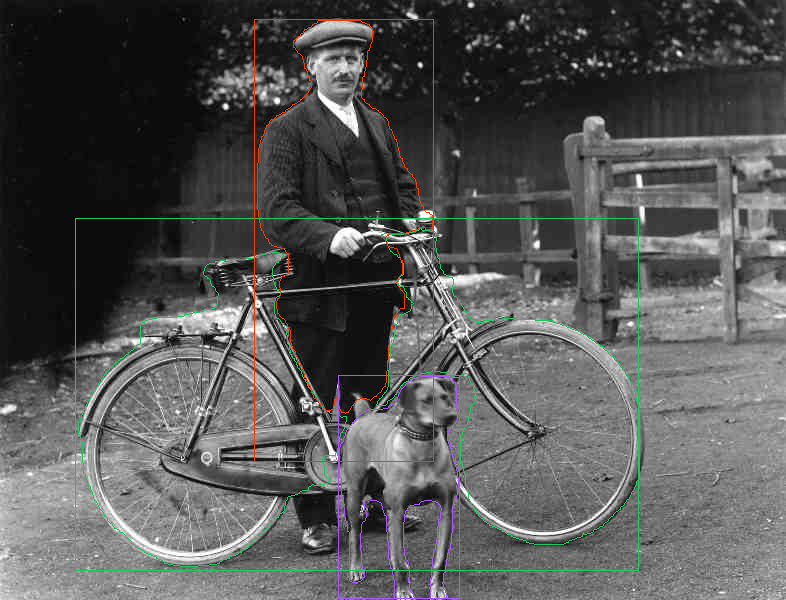
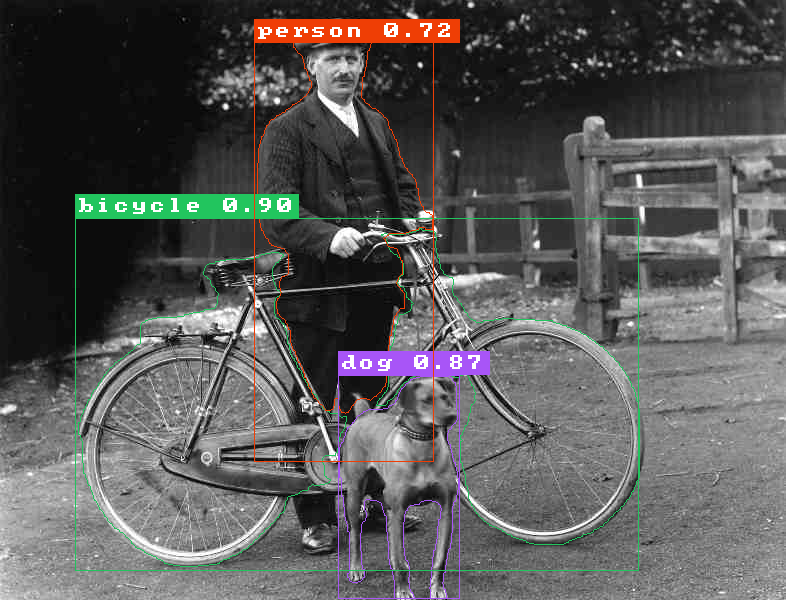
font rendering and text in plots (#1)

Changed region(s): [[0.0916, 0.3, 0.3969, 0.39], [0.3053, 0.03, 0.6107, 0.09], [0.4275, 0.57, 0.6412, 0.63]]

diff --git a/src/lib.rs b/src/lib.rs
@@ -2549,24 +2549,28 @@ pub fn default_wgpu_device() -> (burn::backend::wgpu::WgpuDevice, String) {
         .clone()
 }
 
-/// Draw detection rectangles on a copy of the image.
+/// Draw labeled detection rectangles on a copy of the image.
 pub fn annotate(image: &DynamicImage, detections: &[Detection]) -> DynamicImage {
     let mut output = image.to_rgb8();
     for detection in detections {
         let color = class_color(detection.class_id);
-        draw_rect(
+        draw_labeled_rect(
             &mut output,
-            detection.xmin as u32,
-            detection.ymin as u32,
-            detection.xmax as u32,
-            detection.ymax as u32,
+            [
+                detection.xmin as u32,
+                detection.ymin as u32,
+                detection.xmax as u32,
+                detection.ymax as u32,
+            ],
             color,
+            &detection.class_name,
+            detection.confidence,
         );
     }
     DynamicImage::ImageRgb8(output)
 }
 
-/// Draw instance-mask outlines and detection rectangles on a copy of the image.
+/// Draw instance-mask outlines and labeled detection rectangles on a copy of the image.
 ///
 /// The outline is the mask's boolean boundary: every covered pixel with at least one uncovered
 /// 4-neighbor is drawn in the class color, then the boxes are stroked on top. Masks live in
@@ -2585,13 +2589,17 @@ pub fn annotate_segmentation(
     }
     for detection in detections {
         let color = class_color(detection.class_id);
-        draw_rect(
+        draw_labeled_rect(
             &mut output,
-            detection.xmin as u32,
-            detection.ymin as u32,
-            detection.xmax as u32,
-            detection.ymax as u32,
+            [
+                detection.xmin as u32,
+                detection.ymin as u32,
+                detection.xmax as u32,
+                detection.ymax as u32,
+            ],
             color,
+            &detection.class_name,
+            detection.confidence,
         );
     }
     DynamicImage::ImageRgb8(output)
@@ -2635,6 +2643,124 @@ fn class_color(class_id: usize) -> Rgb<u8> {
         [236, 72, 153],
     ];
     Rgb(PALETTE[class_id % PALETTE.len()])
+}
+
+fn draw_labeled_rect(
+    image: &mut ImageBuffer<Rgb<u8>, Vec<u8>>,
+    bounds: [u32; 4],
+    color: Rgb<u8>,
+    class_name: &str,
+    confidence: f32,
+) {
+    let [x1, y1, x2, y2] = bounds;
+    draw_rect(image, x1, y1, x2, y2, color);
+    draw_label(image, x1, y1, color, class_name, confidence);
+}
+
+/// Draw a compact class-colored chip above the box, matching the visual convention used by
+/// BoquilaHub. The chip falls inside the image at the top edge and shifts left at the right edge.
+fn draw_label(
+    image: &mut ImageBuffer<Rgb<u8>, Vec<u8>>,
+    x: u32,
+    y: u32,
+    color: Rgb<u8>,
+    class_name: &str,
+    confidence: f32,
+) {
+    use font8x8::{BASIC_FONTS, LATIN_FONTS, UnicodeFonts};
+
+    if image.width() < 16 || image.height() < 12 {
+        return;
+    }
+
+    let scale = match image.width().min(image.height()) {
+        0..=399 => 1,
+        400..=899 => 2,
+        _ => 3,
+    };
+    let padding = 2 * scale;
+    let advance = 9 * scale;
+    let max_chars = ((image.width() - 2 * padding) / advance).max(1) as usize;
+    let text = label_text(class_name, confidence, max_chars);
+    let text_chars = text.chars().count() as u32;
+    let chip_width = (text_chars * advance + 2 * padding).min(image.width());
+    let chip_height = 8 * scale + 2 * padding;
+    if chip_height > image.height() {
+        return;
+    }
+
+    let chip_x = x.min(image.width() - chip_width);
+    let chip_y = if y >= chip_height {
+        y - chip_height
+    } else {
+        y.min(image.height() - chip_height)
+    };
+    fill_rect(image, chip_x, chip_y, chip_width, chip_height, color);
+
+    let white = Rgb([255, 255, 255]);
+    let mut cursor_x = chip_x + padding;
+    for character in text.chars() {
+        let glyph = BASIC_FONTS
+            .get(character)
+            .or_else(|| LATIN_FONTS.get(character))
+            .or_else(|| BASIC_FONTS.get('?'))
+            .expect("the built-in bitmap font contains a question mark");
+        for (row, bits) in glyph.iter().copied().enumerate() {
+            for column in 0..8 {
+                if bits & (1 << column) == 0 {
+                    continue;
+                }
+                let glyph_x = cursor_x + column * scale;
+                let glyph_y = chip_y + padding + row as u32 * scale;
+                fill_rect(image, glyph_x, glyph_y, scale, scale, white);
+            }
+        }
+        cursor_x += advance;
+    }
+}
+
+fn label_text(class_name: &str, confidence: f32, max_chars: usize) -> String {
+    let confidence = format!("{confidence:.2}");
+    if max_chars <= confidence.len() {
+        return confidence.chars().take(max_chars).collect();
+    }
+
+    let name_limit = max_chars - confidence.len() - 1;
+    let mut name: String = class_name
+        .chars()
+        .map(|character| {
+            if character.is_control() {
+                '?'
+            } else if character.is_whitespace() {
+                ' '
+            } else {
+                character
+            }
+        })
+        .take(name_limit)
+        .collect();
+    if class_name.chars().count() > name_limit && name_limit > 0 {
+        name.pop();
+        name.push('~');
+    }
+    format!("{name} {confidence}")
+}
+
+fn fill_rect(
+    image: &mut ImageBuffer<Rgb<u8>, Vec<u8>>,
+    x: u32,
+    y: u32,
+    width: u32,
+    height: u32,
+    color: Rgb<u8>,
+) {
+    let right = x.saturating_add(width).min(image.width());
+    let bottom = y.saturating_add(height).min(image.height());
+    for pixel_y in y..bottom {
+        for pixel_x in x..right {
+            image.put_pixel(pixel_x, pixel_y, color);
+        }
+    }
 }
 
 fn draw_rect(
@@ -2750,6 +2876,25 @@ pub const COCO_CLASSES: [&str; 80] = [
 #[cfg(test)]
 mod tests {
     use super::*;
+
+    #[test]
+    fn annotation_labels_include_name_and_confidence_and_fit_the_canvas() {
+        assert_eq!(label_text("person", 0.876, usize::MAX), "person 0.88");
+        assert_eq!(label_text("motorcycle", 0.5, 8), "mo~ 0.50");
+
+        let color = class_color(0);
+        let mut image = ImageBuffer::from_pixel(200, 100, Rgb([0, 0, 0]));
+        draw_label(&mut image, 190, 20, color, "person", 0.9);
+
+        // The 103 px chip is shifted left so it remains fully visible at the right edge.
+        assert_eq!(*image.get_pixel(97, 8), color);
+        assert!(
+            image
+                .enumerate_pixels()
+                .any(|(_, _, pixel)| *pixel == Rgb([255, 255, 255])),
+            "label text should be drawn in white"
+        );
+    }
 
     /// Check that the production YOLOX artifact preserves the direct official-checkpoint result.
     /// Requires the external checkpoint and generated artifact under `target/`.

diff --git a/tools/bench_full_convergence.py b/tools/bench_full_convergence.py
@@ -113,7 +113,7 @@ def main() -> None:
     parser.add_argument("--output", type=Path, default=ROOT / "target" / "full-convergence")
     args = parser.parse_args()
     if not BINARY.is_file():
-        raise SystemExit("build first: cargo build --release")
+        raise SystemExit("build first: cargo build --release --features training")
     tasks = args.task or ["detect", "segment"]
     frameworks = args.framework or ["native", "ultralytics"]
     train, val, names = resolve_coco(args.download)

diff --git a/tools/benchmark_training.py b/tools/benchmark_training.py
@@ -47,7 +47,7 @@ def main() -> None:
     charts = output / "charts"
     if not args.skip_build and args.native_binary is None:
         subprocess.run(
-            ["cargo", "build", "--release"],
+            ["cargo", "build", "--release", "--features", "training"],
             cwd=ROOT,
             check=True,
         )

diff --git a/src/training/mod.rs b/src/training/mod.rs
@@ -1,6 +1,6 @@
 //! Native-training contracts and parity-tested building blocks.
 //!
-//! Training is a first-class default capability and uses Burn autodiff on WGPU.
+//! Training is an opt-in capability using Burn autodiff on WGPU.
 
 pub mod assign;
 #[cfg(test)]

diff --git a/AGENTS.md b/AGENTS.md
@@ -64,10 +64,11 @@ When external checkpoints and fixtures are available:
 cargo test -- --ignored
 ```
 
-Training is part of the default build. For focused training verification, run:
+Training is opt-in. For training changes, run:
 
 ```console
-cargo test training
+cargo test --features training training
+cargo clippy --features training --all-targets -- -D warnings
 ```
 
 Real training, hardware smoke tests, and latency measurements must use `--release`. Single-image
@@ -115,8 +116,8 @@ rescaling. Golden tensor tests are the authority for these quirks.
   `f32` after RandomErasing.
 - Native seeded output is a Montgomery contract. Cross-language parity uses injected parameters or
   traces, not equal seed values.
-- Training is enabled by default and WGPU-only; inference graphs and prediction output must remain
-  unchanged.
+- Training is opt-in through `--features training` and WGPU-only; inference graphs and prediction
+  output must remain unchanged.
 - Losses consume raw logits. YOLOX uses objectness; modern heads use TAL. YOLOv10/YOLO26 training
   retains one-to-many plus detached-feature one-to-one branches; YOLO26 remains DFL-free.
 - Assignment may synchronize detached values to the host, but loss totals must remain connected to
